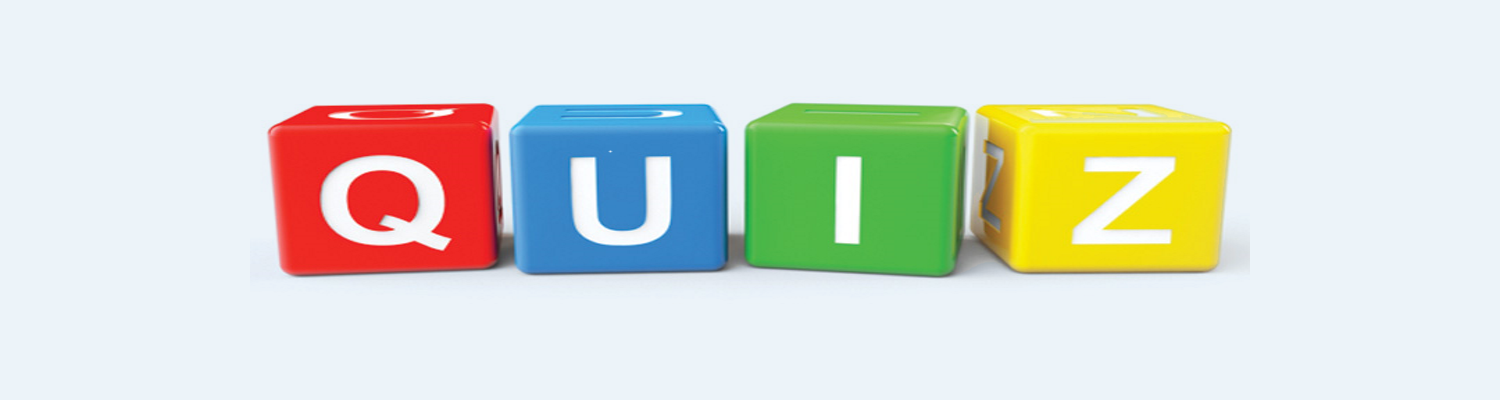
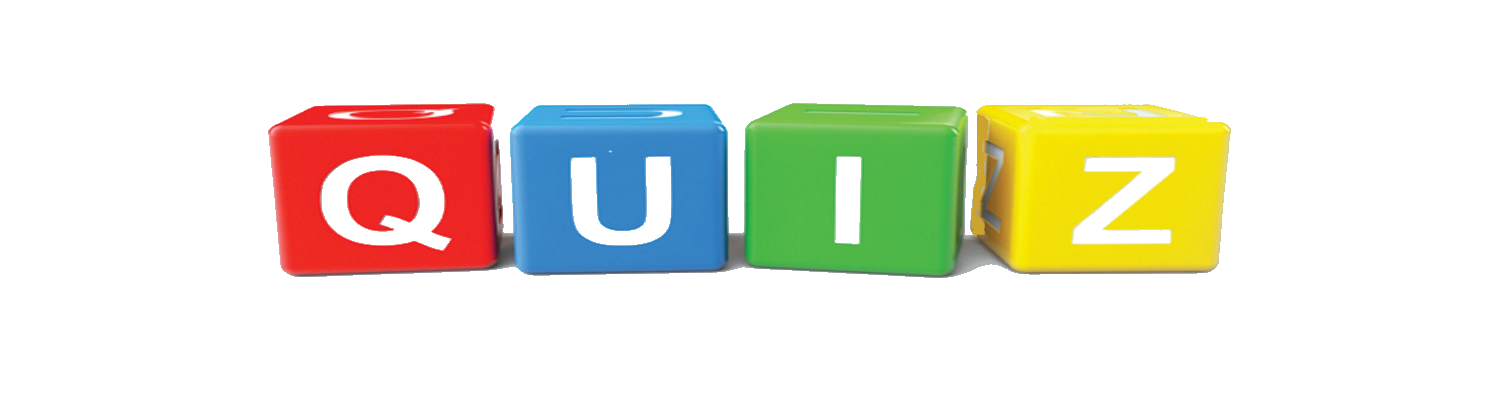
Snyggade till bakgrunden

diff --git a/src/main/webapp/css/default.css b/src/main/webapp/css/default.css
@@ -1,5 +1,6 @@
 .jumbotron{
-  background-image: url("../images/jumbotron.png");
+  background: url("../images/jumbotron.png"),
+  transparent;
   background-repeat: no-repeat;
   background-size: cover;
   background-position: center;
@@ -17,7 +18,10 @@
 }
 
 body {
-	background-color: rgba(66,139,202,0.1);
+	background-image: url("../images/background.png");
+	background-repeat: no-repeat;
+  	background-size: cover;
+  	background-position: center;
 	color: rgb(66,139,202);
 }
 
